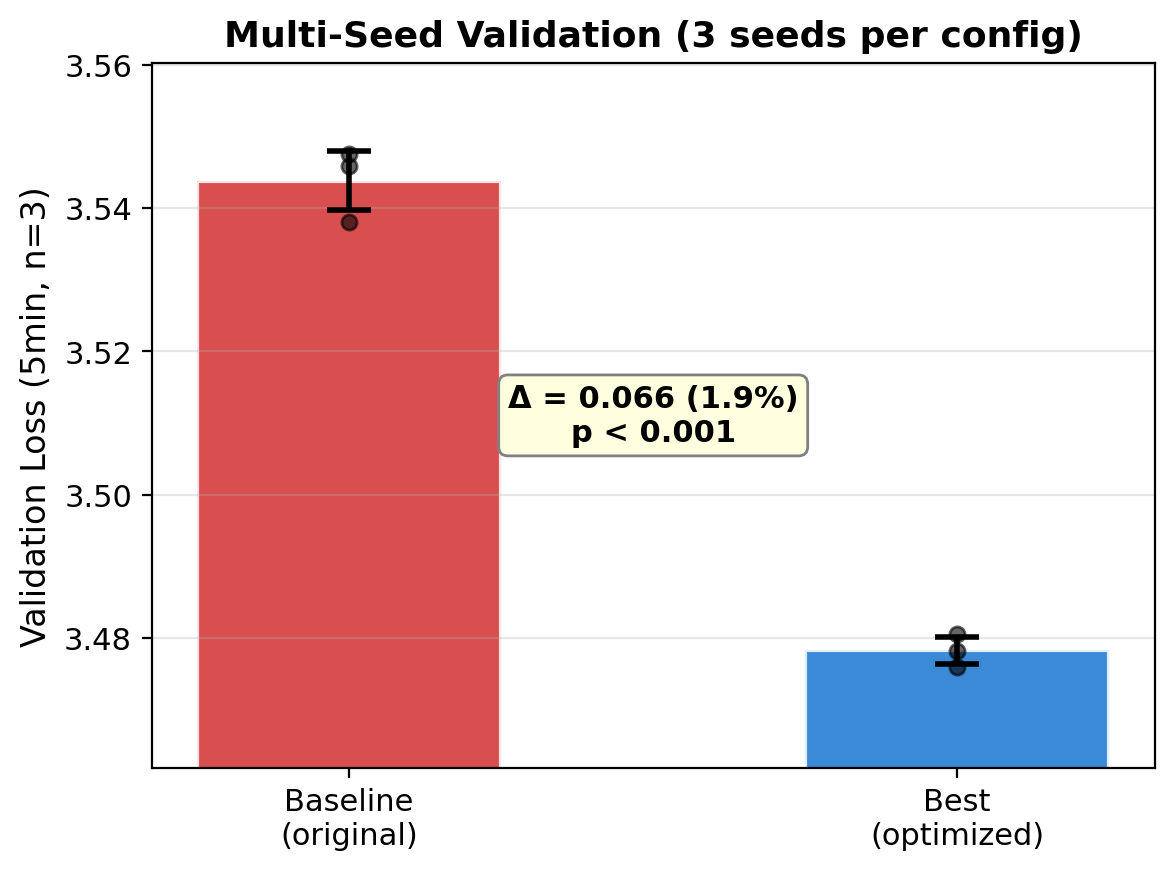
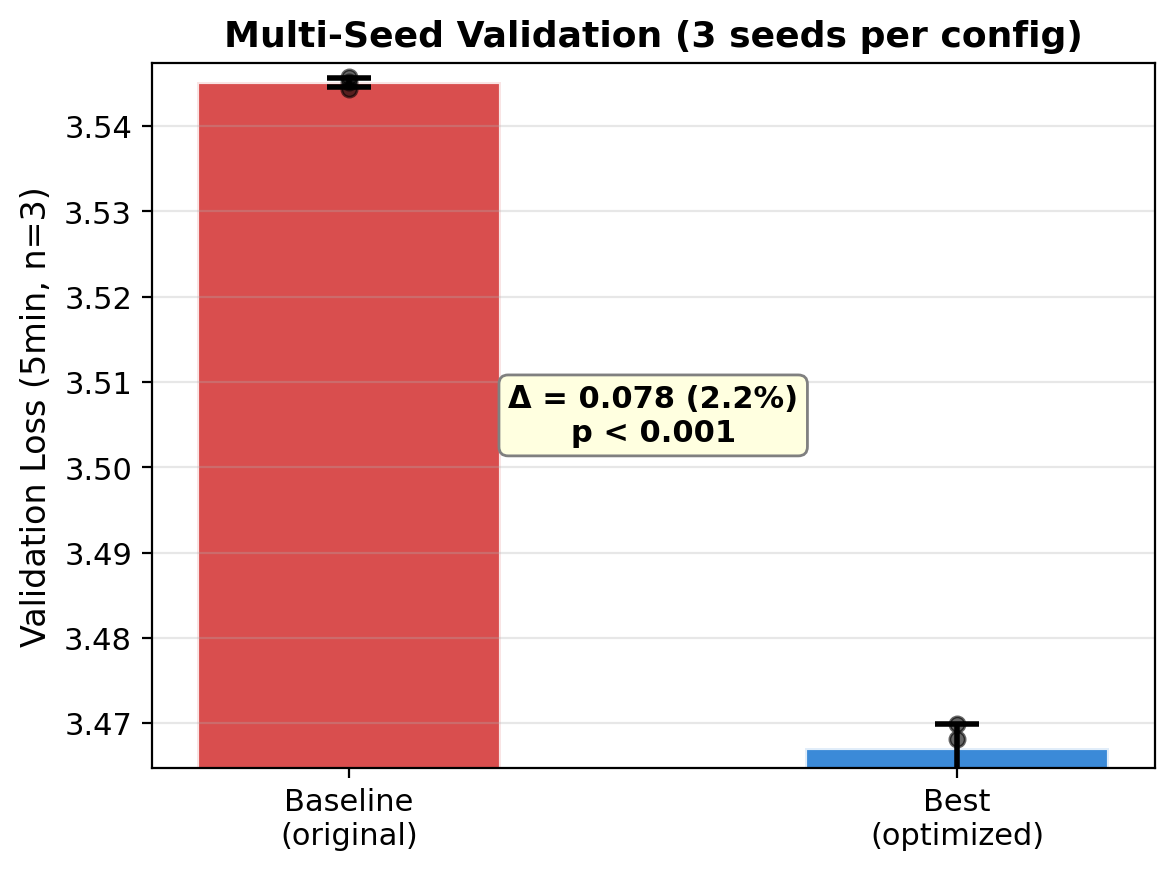
Updated paper figures with final recipe data
Multi-seed bar chart now shows sweep33 results:
  Best: 3.467±0.004, Baseline: 3.545±0.001
  Δ = 0.078 (2.2%), p=0.0004, Cohen's d=30.7

diff --git a/plot_paper_figures.py b/plot_paper_figures.py
@@ -176,9 +176,9 @@ if best_curves or baseline_curves:
 # Figure 3: Multi-seed bar chart
 # ============================================================
 
-# Sweep27 paper data
-best_seeds = [3.4760, 3.4806, 3.4782]
-baseline_seeds = [3.5459, 3.5381, 3.5475]
+# Sweep33 final paper data (mom=0.95 recipe)
+best_seeds = [3.4631, 3.4681, 3.4699]
+baseline_seeds = [3.5452, 3.5444, 3.5458]
 
 best_mean, best_std = np.mean(best_seeds), np.std(best_seeds)
 baseline_mean, baseline_std = np.mean(baseline_seeds), np.std(baseline_seeds)
